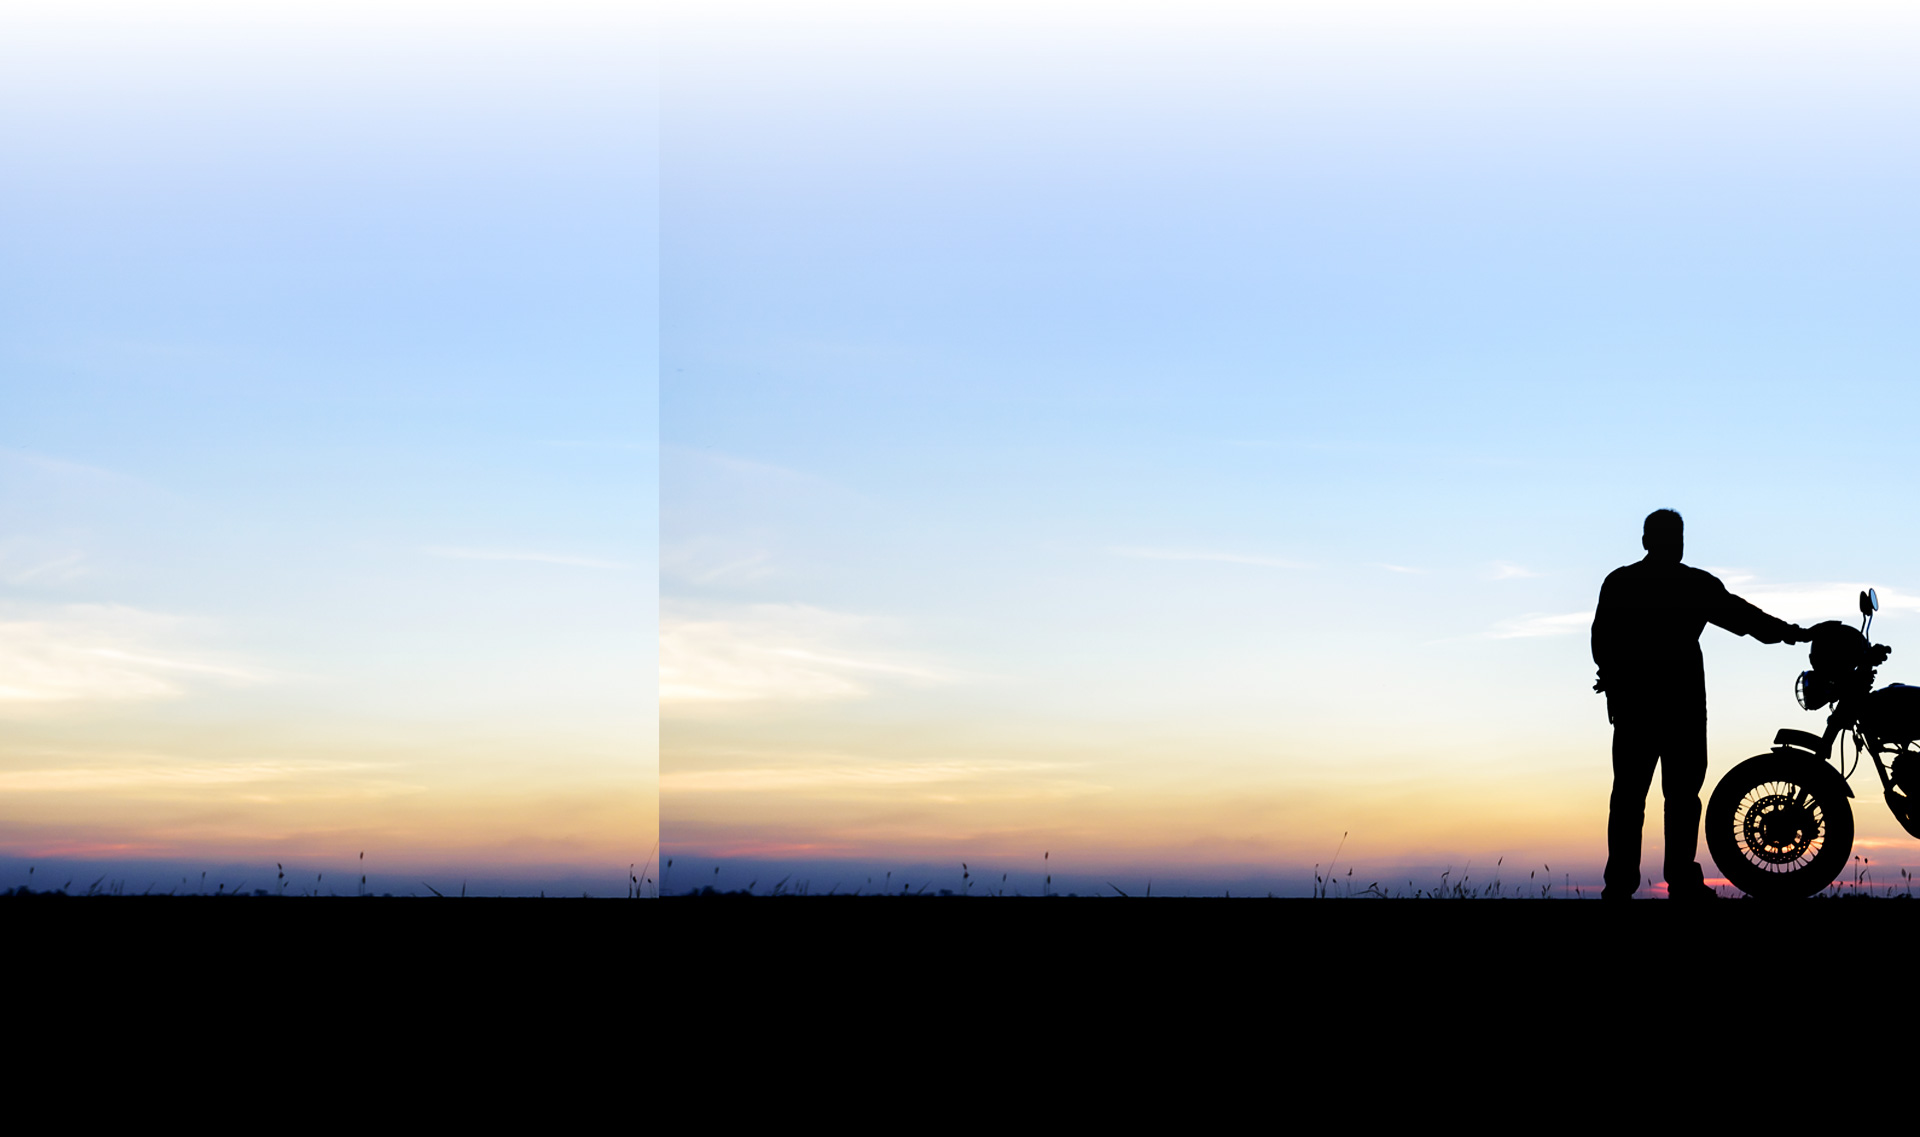
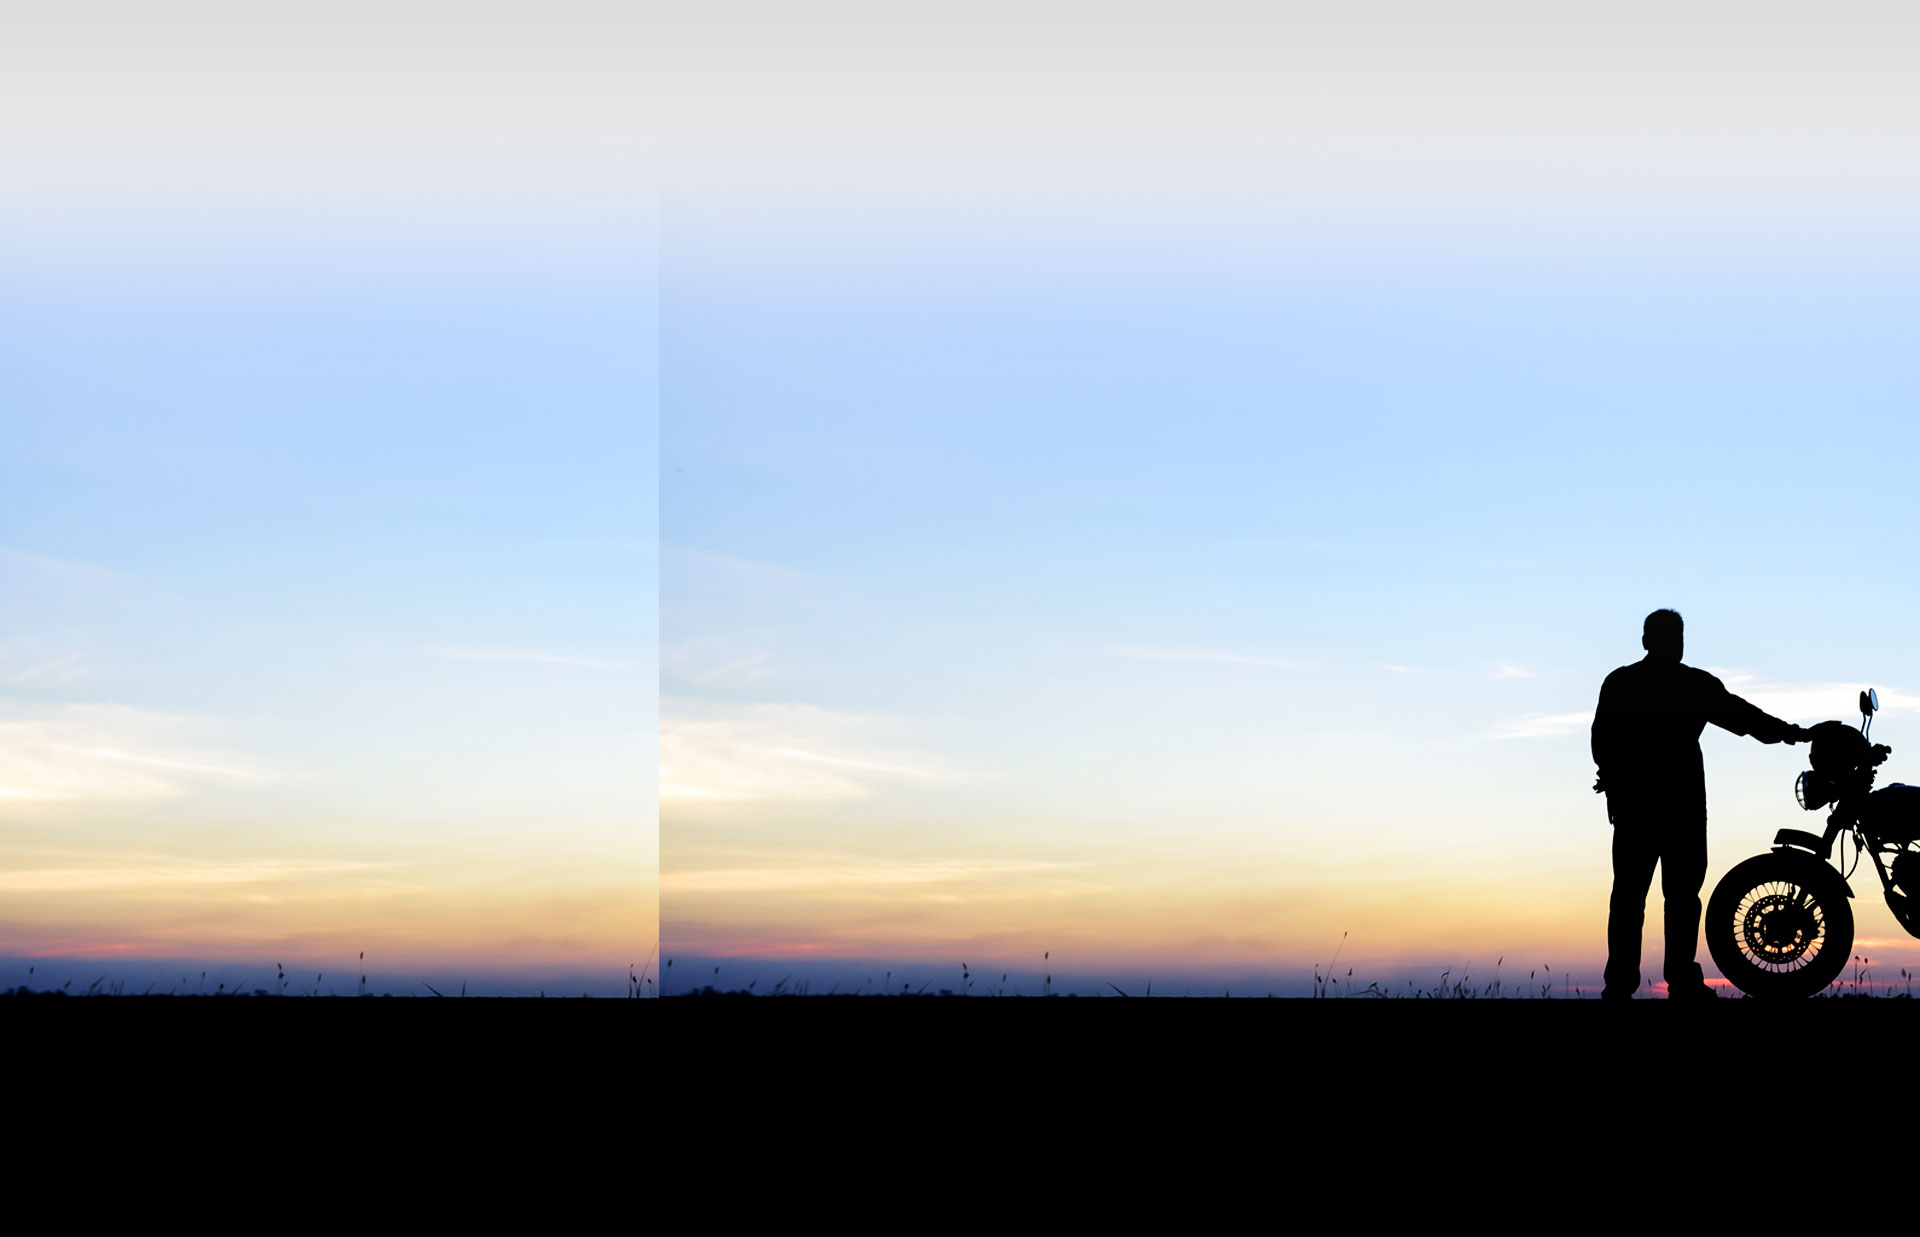
Site - Harley Davidson Curitiba
Página finalizada, foram inclusos alguns efeitos como solicitado. Página pronta para avaliação.

diff --git a/views/harley-davidson-curitiba.php b/views/harley-davidson-curitiba.php
@@ -1,4 +1,6 @@
 <?php
+	ScriptLoader::LoadPLUGINSCSS('Hover-master/css/hover-min.css');
+
 	ScriptLoader::LoadPLUGINSCSS('fancybox-master/dist/jquery.fancybox.min.css');
 	ScriptLoader::LoadPLUGINSJS('fancybox-master/dist/jquery.fancybox.min.js');
 ?>
@@ -8,16 +10,16 @@
 		html { overflow-x: hidden }
 	}
 	@media screen and (min-width: 768px) and (max-width: 1200px) {
-		.background-alternativo { top: 659px }
+		.background-alternativo { top: 559px }
 	}
 	@media screen and (min-width: 992px) and (max-width: 1199px) {
-		.background-alternativo { top: 599px }
+		.background-alternativo { top: 499px }
 	}
 	@media screen and (min-width: 1200px) and (max-width: 1439px) {
-		.background-alternativo { top: 582px }
+		.background-alternativo { top: 482px }
 	}
 	@media screen and (min-width: 1440px) {
-		.background-alternativo { top: 599px }
+		.background-alternativo { top: 499px }
 	}
 </style>
 <img src="<?= RAIZSITE ?>/img/marcacao-background-interna.jpg" style="position: absolute; left: 0" class="hidden-xs background-alternativo">
@@ -159,6 +161,8 @@
 	.row-harley-destaque .bg-destaque h3 { color: #f9a61a; font-size: 30px }
 	.row-harley-destaque .bg-destaque p { font-family: 'Roboto', sans-serif; color: #ffffff }
 
+	.row-harley-destaque p { max-width: 407px }
+
 	@media screen and (max-width: 767px) {
 		.row-harley-destaque .bg-destaque { height: 270px }
 	}
@@ -181,8 +185,7 @@
 		<div class="bg-destaque">
 			<div class="col-lg-6 col-md-6 col-sm-6 col-xs-12 position-center-vertical">
 				<h3>MOTO HARLEY-DAVIDSON<br>EM CURITIBA É NA CLUB 1903</h3>
-				<p>Encontre a moto Harley Davidson que vai mudar a sua vida.<br>
-					Confira os modelos Sportster, Dyna, Softail, Touring, V-Rod<br>e escolha o modelo que mais combina com o seu estilo de vida.</p>
+				<p>Encontre a moto Harley Davidson que vai mudar a sua vida. Confira os modelos Sportster, Dyna, Softail, Touring, V-Rod e escolha o modelo que mais combina com o seu estilo de vida.</p>
 				<p>A estrada espera por você.</p>
 			</div>
 		</div>
@@ -285,7 +288,10 @@
 	    	.row-modelo .div-tour .owl-theme .item div { background-size: cover !important; background-position: center center !important; border-radius: 15px; width: 450px }
 
 	    	.btn-modelo { z-index: 2 }
+	    	/*
 	    	.btn-modelo:hover { border-color: #000000; color: #ffffff !important }
+	    	*/
+	    	.btn-modelo { left: 33% !important }
 
 	    	.owl-carousel .owl-stage-outer { border-radius: 15px }
 	    }
@@ -358,7 +364,7 @@
 					</a>
 				</div>
 
-				<a role="button" class="btn btn-modelo position-center">Escolha a sua</a>
+				<a role="button" class="btn btn-modelo position-center hvr-float">Escolha a sua</a>
 			</div>
 		</div>
 	</div>
@@ -431,7 +437,7 @@
 			</div>
 
 			<div class="destaque hidden-xs" style="background: url('<?= RAIZSITE ?>/img/marcacao-modelo-sportster.jpg'); background-size: cover; background-position: center center; border-radius: 15px; height: 285px; position: absolute; top: 60px">
-				<a role="button" class="btn btn-modelo position-center">Escolha a sua</a>
+				<a role="button" class="btn btn-modelo position-center hvr-grow-rotate">Escolha a sua</a>
 			</div>
 		</div>
 	</div>
@@ -464,7 +470,7 @@
 			</div>
 
 			<div class="destaque hidden-xs" style="background: url('<?= RAIZSITE ?>/img/marcacao-modelo-softail.jpg'); background-size: cover; background-position: center center; border-radius: 15px; height: 285px; position: absolute; top: 60px">
-				<a role="button" class="btn btn-modelo position-center">Escolha a sua</a>
+				<a role="button" class="btn btn-modelo position-center hvr-bounce-in">Escolha a sua</a>
 			</div>
 		</div>
 	</div>
@@ -497,7 +503,7 @@
 			</div>
 
 			<div class="destaque hidden-xs" style="background: url('<?= RAIZSITE ?>/img/marcacao-modelo-touring.jpg'); background-size: cover; background-position: center center; border-radius: 15px; height: 285px; position: absolute; top: 60px">
-				<a role="button" class="btn btn-modelo position-center">Escolha a sua</a>
+				<a role="button" class="btn btn-modelo position-center hvr-pop">Escolha a sua</a>
 			</div>
 		</div>
 	</div>
@@ -528,7 +534,7 @@
 			</div>
 
 			<div class="destaque hidden-xs" style="background: url('<?= RAIZSITE ?>/img/marcacao-modelo-v-rod.jpg'); background-size: cover; background-position: center center; border-radius: 15px; height: 285px; position: absolute; top: 60px">
-				<a role="button" class="btn btn-modelo position-center">Escolha a sua</a>
+				<a role="button" class="btn btn-modelo position-center" style="left: 50% !important">Escolha a sua</a>
 			</div>
 		</div>
 	</div>
@@ -536,6 +542,22 @@
 
 <style type="text/css">
 	.chamada-marcas img { height: 211px }
+	.chamada-marcas img {
+		-webkit-animation-name: hvr-bob-float,hvr-bob;
+	    animation-name: hvr-bob-float,hvr-bob;
+	    -webkit-animation-duration: .3s,1.5s;
+	    animation-duration: .3s,1.5s;
+	    -webkit-animation-delay: 0s,.3s;
+	    animation-delay: 0s,.3s;
+	    -webkit-animation-timing-function: ease-out,ease-in-out;
+	    animation-timing-function: ease-out,ease-in-out;
+	    -webkit-animation-iteration-count: 1,infinite;
+	    animation-iteration-count: 1,infinite;
+	    -webkit-animation-fill-mode: forwards;
+	    animation-fill-mode: forwards;
+	    -webkit-animation-direction: normal,alternate;
+	    animation-direction: normal,alternate
+	}
 
 	@media screen and (min-width: 768px) and (max-width: 991px) {
 		.session-logos { margin-top: -5px }

diff --git a/views/componentes/header.php b/views/componentes/header.php
@@ -286,8 +286,8 @@
     		</div>
     		<div class="col-lg-3 col-md-3 hidden-sm hidden-xs">
     			<ul class="nav navbar-nav destaques">
-                    <li class="Border telefone">ALTO DA XV<br><a href="tel:30290095"><span>41</span> 3029.0095</a></li>
-                    <li class="Border telefone">DISTRITO 1340<br><a href="tel:30290095"><span>41</span> 3029.0095</a></li>
+                    <li class="Border telefone">ALTO DA XV<br><a class="hvr-buzz-out" href="tel:30290095"><span>41</span> 3029.0095</a></li>
+                    <li class="Border telefone">DISTRITO 1340<br><a class="hvr-buzz-out" href="tel:30290095"><span>41</span> 3029.0095</a></li>
                 </ul>
     		</div>
     	</div>
@@ -295,11 +295,11 @@
     		<div class="col-lg-3 col-md-3 col-sm-3 hidden-xs">&nbsp;</div>
     		<div class="col-lg-6 col-md-6 col-sm-9 col-xs-12 bloco-links padding-zero">
     			<ul class="nav navbar-nav">
-                    <li class="Border"><a href="">A Club</a></li>
+                    <li class="Border"><a href="<?= RAIZSITE ?>/harley-davidson-curitiba">A Club</a></li>
                     <li class="Border"><a href="">Motos</a></li>
                     <li class="Border"><a href="">Eventos</a></li>
                     <li class="Border"><a href="">Notícias</a></li>
-                    <li class="Border"><a href="#">Loja</a></li>
+                    <li class="Border"><a href="">Loja</a></li>
                     <li class="Border"><a href="">Contato</a></li>
                     <li class="hidden-xs"><div class="divisoria"></div></li>
                     <li class="Border"><a href="">Ofertas</a></li>
